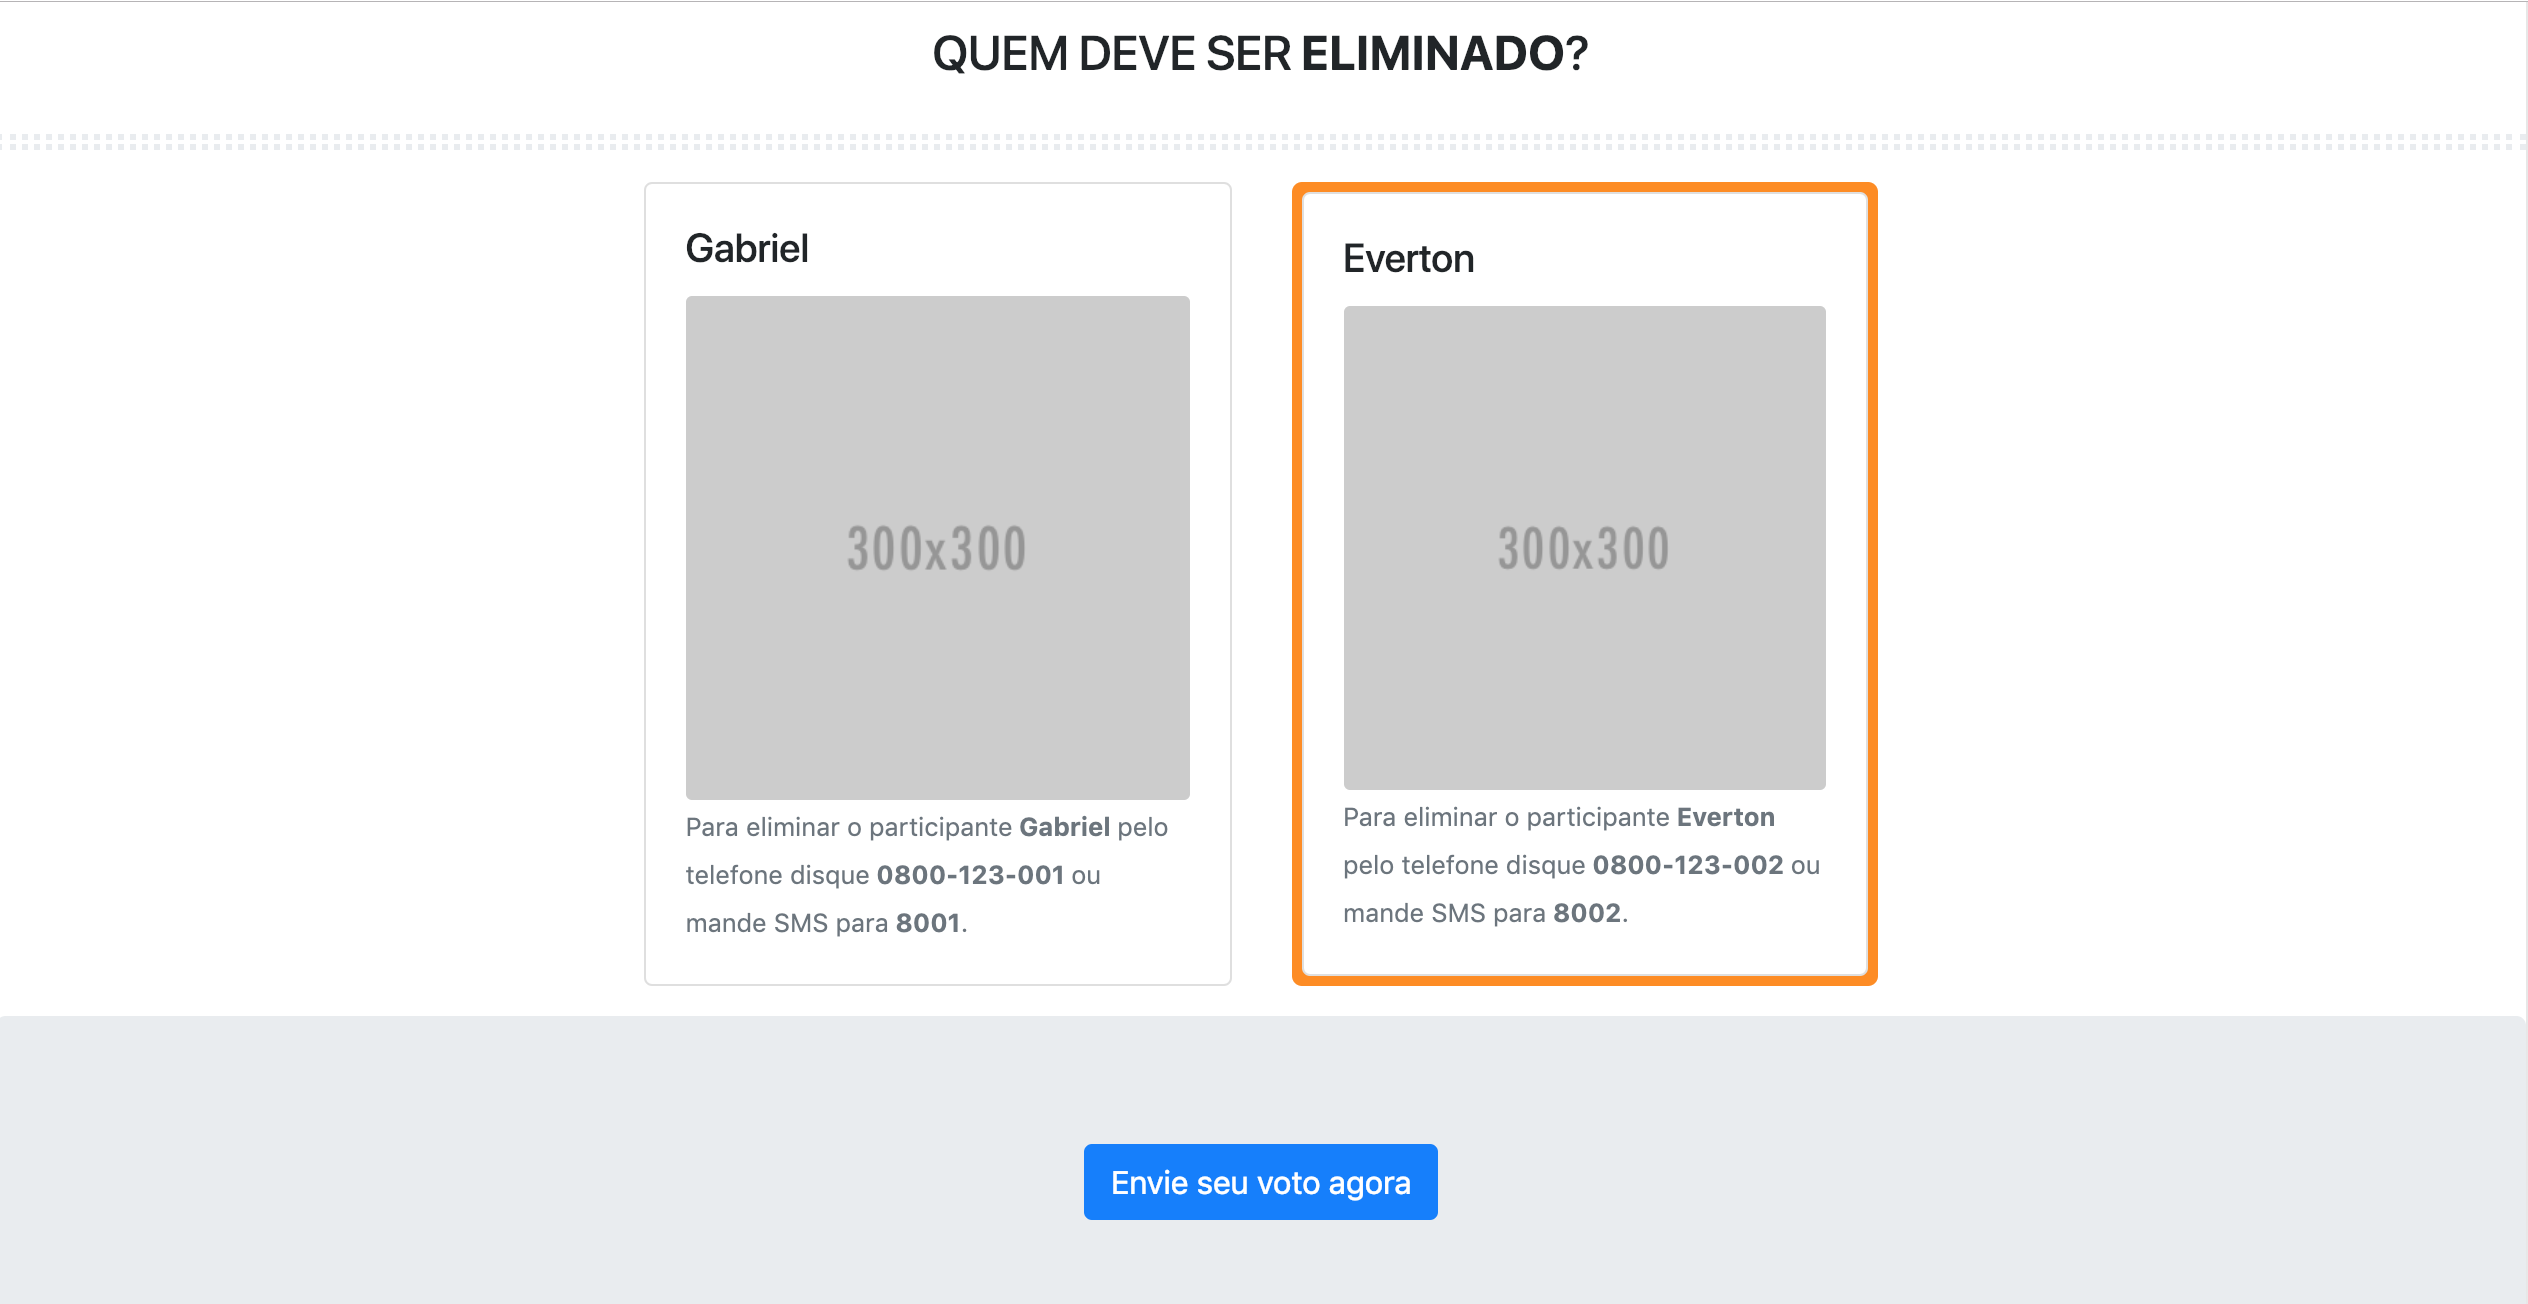
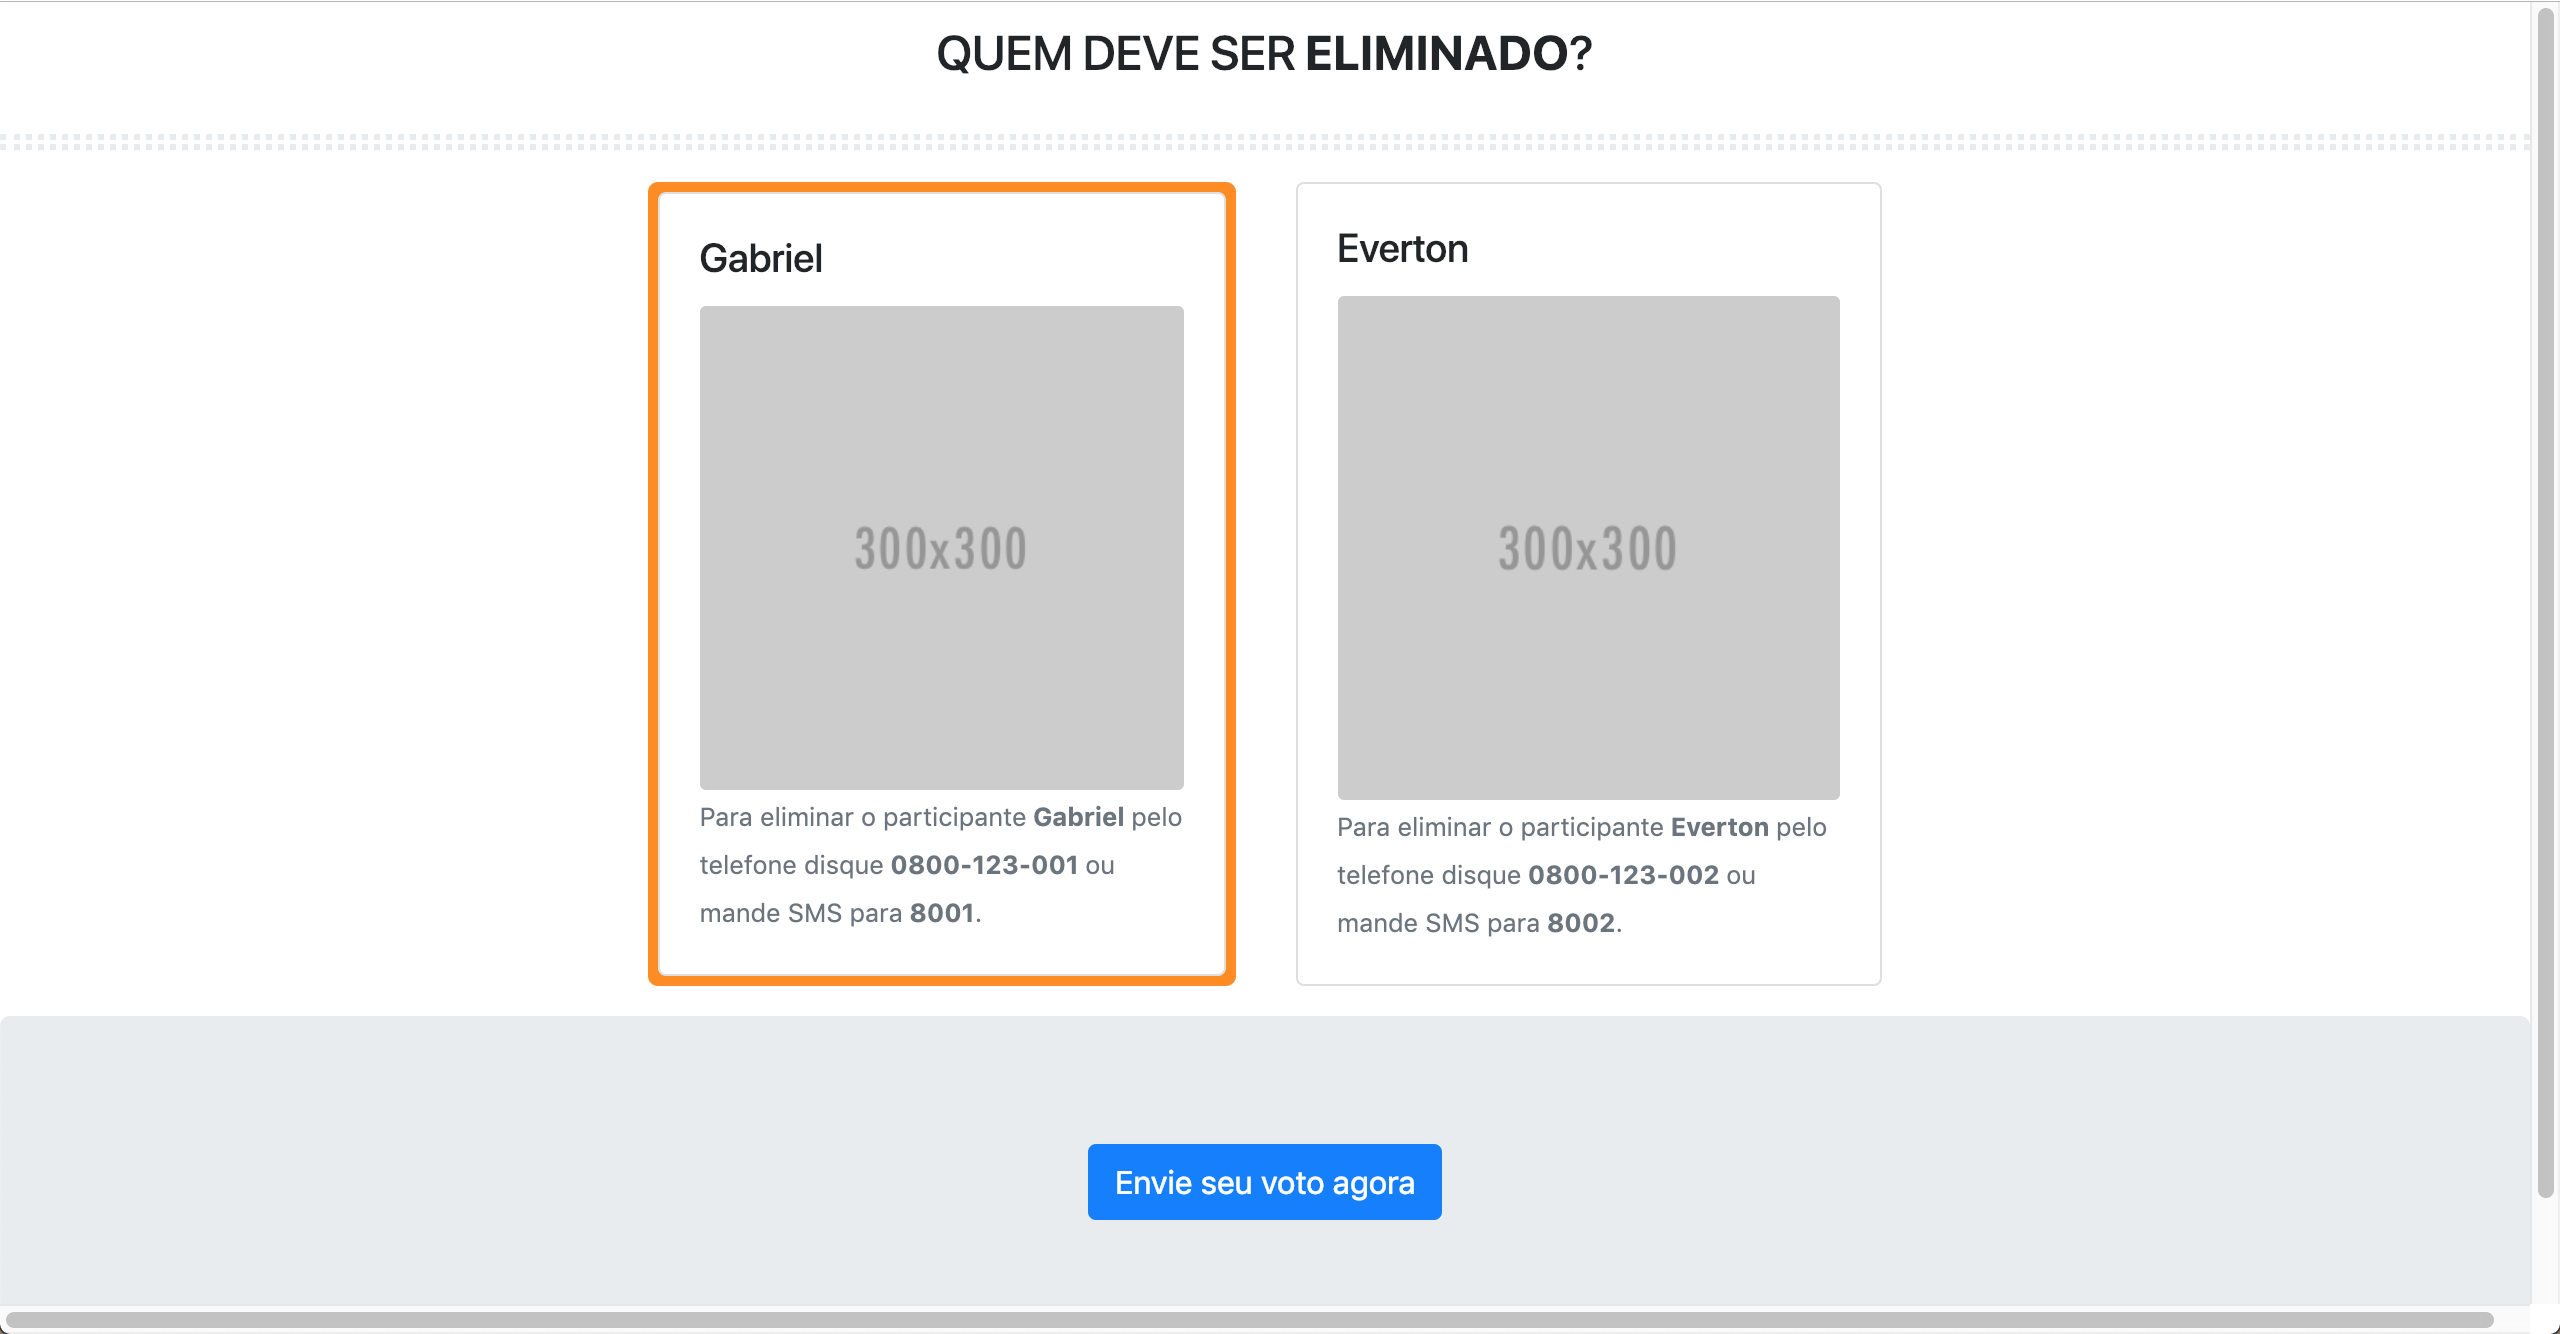
Criado tela de resultado, já passando parametros do votante.

diff --git a/src/client/components/Resultado.jsx b/src/client/components/Resultado.jsx
@@ -1,0 +1,71 @@
+import React from 'react';
+import { Query } from 'react-apollo';
+import { Row } from 'reactstrap';
+import styled from 'styled-components';
+import { GET_LASTEST_PAREDAO, GET_PARTICIPANTE } from '../graphql/queries';
+import VotacaoDetail from './VotacaoDetail';
+
+const Title = styled.h4`
+  text-align: center;
+  vertical-align: middle;
+  line-height: 50px; 
+`;
+
+const SubTitle = styled.h4`
+  text-align: center;
+  vertical-align: middle;
+  line-height: 50px; 
+`;
+
+const Hr = styled.hr`
+  border: dotted;
+  border-top: 3px dotted #e9ecef;
+  color: #e9ecef;
+  overflow: visible;
+  height: 2px;
+`;
+
+class Resultado extends React.Component {
+  constructor(props) {
+    super(props);
+    this.state = {};
+  }
+
+  render() {
+    const _idVotado = this.props.match.params._id;
+    return (
+      <div>
+        <Title>QUEM DEVE SER <strong>ELIMINADO</strong>?</Title>
+        <Hr />
+        <Query query={GET_PARTICIPANTE} variables={{ _id: _idVotado }}>
+          {({ data: getParticipanteById, loading, error }) => {
+            if (loading) return <SubTitle>Carregando...</SubTitle>;
+            if (error) return <SubTitle>Ocorreu um erro :(</SubTitle>;
+
+            return <SubTitle><strong>Parabéns!</strong> Seu voto para <strong>{getParticipanteById.ParticipanteById.nome}</strong> foi enviado com sucesso.</SubTitle>;
+          }}
+        </Query>
+        <Row className="justify-content-center">
+          <Query query={GET_LASTEST_PAREDAO}>
+            {({ loading, error, data }) => {
+              if (loading) {
+                return <p>Buscando participantes...</p>;
+              }
+              if (error) {
+                return <p>Erro ao consultar, verifique a conexão mongodb.</p>;
+              }
+              return data.getLastestParedao.participantes.map((detalhe, index) => (
+                <VotacaoDetail
+                  key={detalhe._id}
+                  detail={{ ...detalhe, index, }}
+                />
+              ));
+            }}
+          </Query>
+        </Row>
+      </div>
+    );
+  }
+}
+
+export default Resultado;

diff --git a/src/client/components/Footer.jsx b/src/client/components/Footer.jsx
@@ -2,28 +2,36 @@ import React from 'react';
 import styled from 'styled-components';
 import { Jumbotron, Button } from 'reactstrap';
 import PropTypes from 'prop-types';
+import { Link } from 'react-router-dom';
 
 const FooterContainer = styled.div`
   padding-top: 15px
 `;
 
-const ButtonValidated = ({ action }) => {
-  if (action) return (<Button color="primary" onClick={action}>Envie seu voto agora</Button>);
+const ButtonValidated = ({ action, _id }) => {
+  if (action) return (<Link to={`/resultado/${_id}`}><Button color="primary" onClick={action}>Envie seu voto agora</Button></Link>);
   return (<Button color="grey">Para votar basta clicar em um canditato.</Button>);
 };
 
 ButtonValidated.propTypes = {
-  action: PropTypes.func.isRequired,
+  action: PropTypes.func,
+  _id: PropTypes.string
+};
+
+ButtonValidated.defaultProps = {
+  action: null,
+  _id: null,
 };
 
 const Footer = ({
   selectedCardState: {
     action,
+    _id,
   }
 }) => (
   <FooterContainer className="text-center">
     <Jumbotron>
-      <ButtonValidated action={action || null} />
+      <ButtonValidated action={action} _id={_id} />
     </Jumbotron>
   </FooterContainer>
 );
@@ -31,7 +39,15 @@ const Footer = ({
 Footer.propTypes = {
   selectedCardState: PropTypes.shape({
     action: PropTypes.func,
-  }).isRequired,
+    _id: PropTypes.string,
+  }),
+};
+
+Footer.defaultProps = {
+  selectedCardState: {
+    action: null,
+    _id: null
+  }
 };
 
 export default Footer;

diff --git a/src/client/graphql/queries.js b/src/client/graphql/queries.js
@@ -17,9 +17,9 @@ export const GET_PARTICIPANTES_VOTACAO = gql`
 `;
 
 export const GET_PARTICIPANTE = gql`
-  {
-    getParticipanteById(_id: "5bdcb6fd1b2d1f1fc5ec3675") {
-      idade,nome,_id
+  query($_id: ID!){
+    ParticipanteById(_id: $_id) {
+      nome, _id, idade, quantidadeVotosUltimoParedao
     }
   }
 `;
@@ -31,8 +31,9 @@ export const GET_LASTEST_PAREDAO = gql`
       tempoInicio, 
       tempoFim, 
       participantes {
+        _id,
         nome,
-        _id
+        quantidadeVotosUltimoParedao,
       }
     }
   }

diff --git a/src/client/components/App.jsx b/src/client/components/App.jsx
@@ -1,6 +1,7 @@
 import React from 'react';
 import { BrowserRouter, Route, Switch } from 'react-router-dom';
 import Votacao from './Votacao';
+import Resultado from './Resultado';
 import NotFound from './NotFound';
 
 const App = () => (
@@ -8,6 +9,7 @@ const App = () => (
     <BrowserRouter>
       <Switch>
         <Route exact path="/" component={Votacao} />
+        <Route exact path="/resultado/:_id" component={Resultado} />
         <Route component={NotFound} />
       </Switch>
     </BrowserRouter>

diff --git a/src/client/components/VotacaoDetail.jsx b/src/client/components/VotacaoDetail.jsx
@@ -86,9 +86,15 @@ VotacaoDetail.propTypes = {
     idade: PropTypes.number,
     quantidadeVotosUltimoParedao: PropTypes.number,
   }).isRequired,
-  selected: PropTypes.bool.isRequired,
-  action: PropTypes.func.isRequired,
-  callback: PropTypes.func.isRequired,
+  selected: PropTypes.bool,
+  action: PropTypes.func,
+  callback: PropTypes.func,
+};
+
+VotacaoDetail.defaultProps = {
+  selected: false,
+  action: null,
+  callback: null,
 };
 
 export default VotacaoDetail;

diff --git a/src/server/graphql/entities/Participante/resolvers.js b/src/server/graphql/entities/Participante/resolvers.js
@@ -3,7 +3,7 @@ import Participante from '../../../models/participanteModel';
 
 export const resolver = {
   Query: {
-    async getParticipanteById(root, { _id }) {
+    async ParticipanteById(root, { _id }) {
       const r = await Participante.findById(_id);
       return r;
     },

diff --git a/src/server/graphql/entities/Participante/typeDefs.js b/src/server/graphql/entities/Participante/typeDefs.js
@@ -1,6 +1,6 @@
 export const typeDefs = `
   extend type Query {
-    getParticipanteById(_id: ID!): Participante
+    ParticipanteById(_id: ID!): Participante
     getAllParticipantes: [Participante]
   }
   type Participante {

diff --git a/HISTORY.MD b/HISTORY.MD
@@ -8,8 +8,12 @@
 
 ## Screen
 
+Screen to VOTE -> scenario 1 selected
 ![](votingscreen.png)
-
+Screen to VOTE -> scenario 2 not selected
+![](candidateNotSelected.png)
+Screen to see RESULT -> scenario 1
+![](screenResult.png)
 ## Installation
 
 **Clone this repo:**
